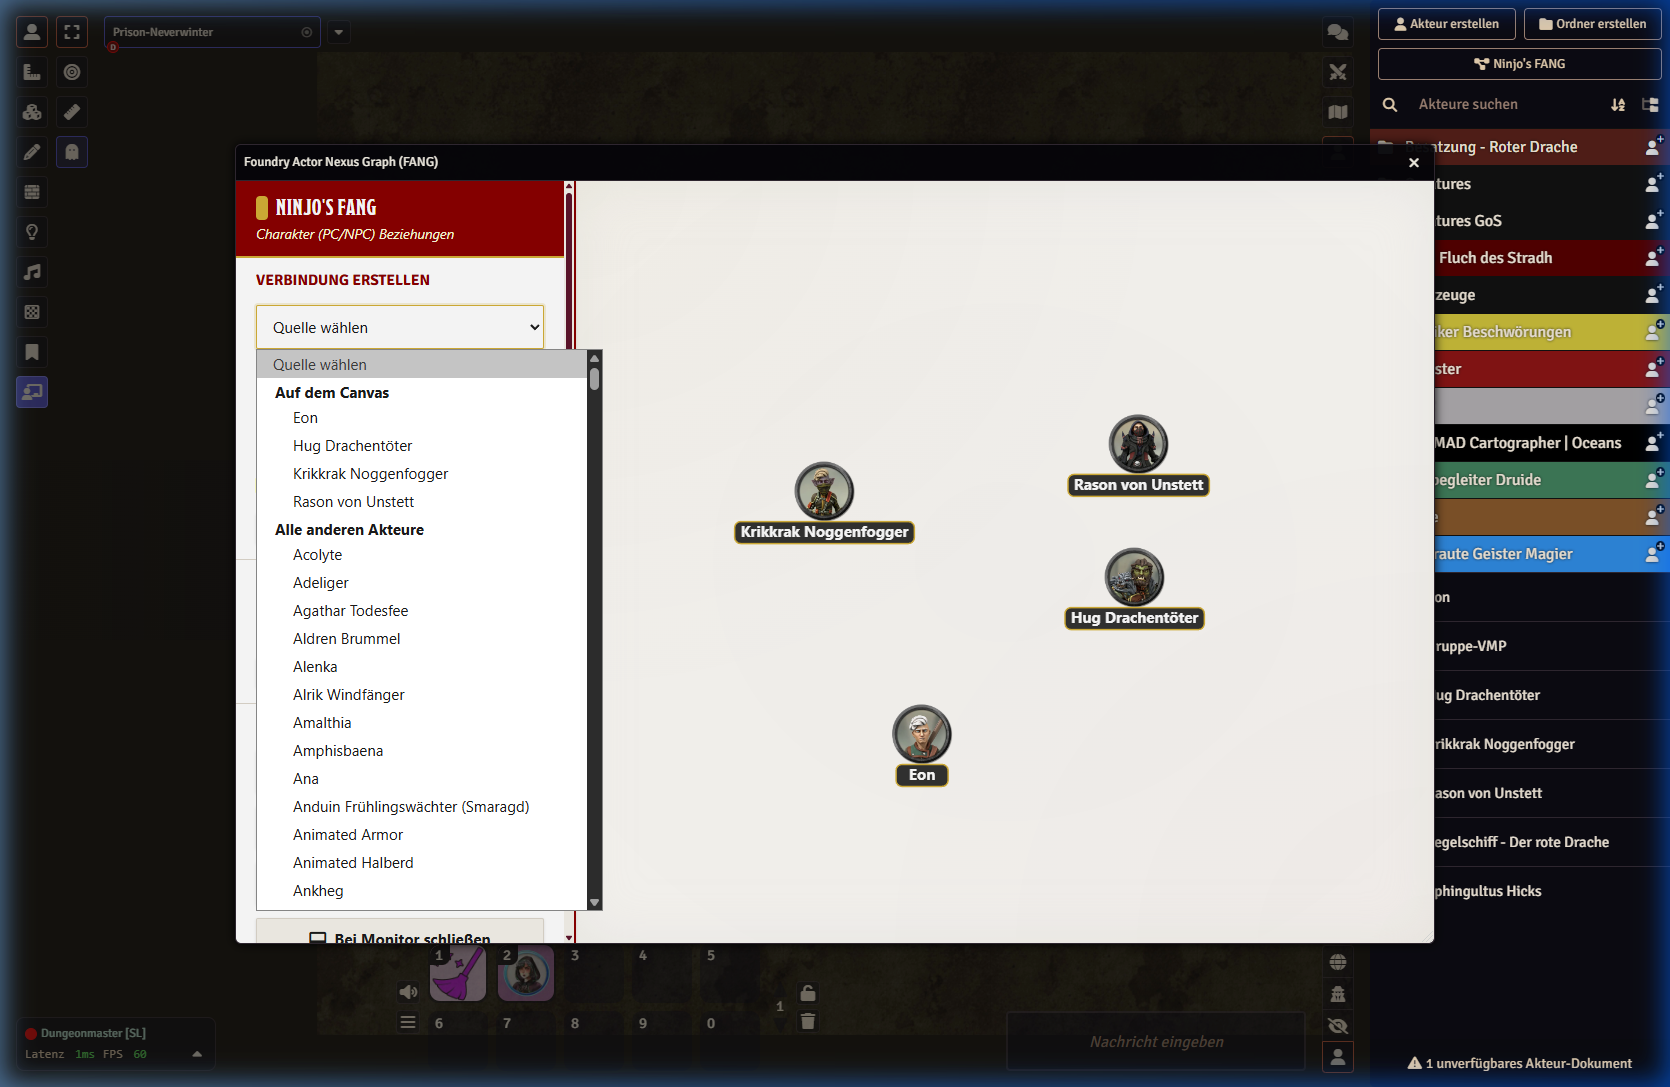
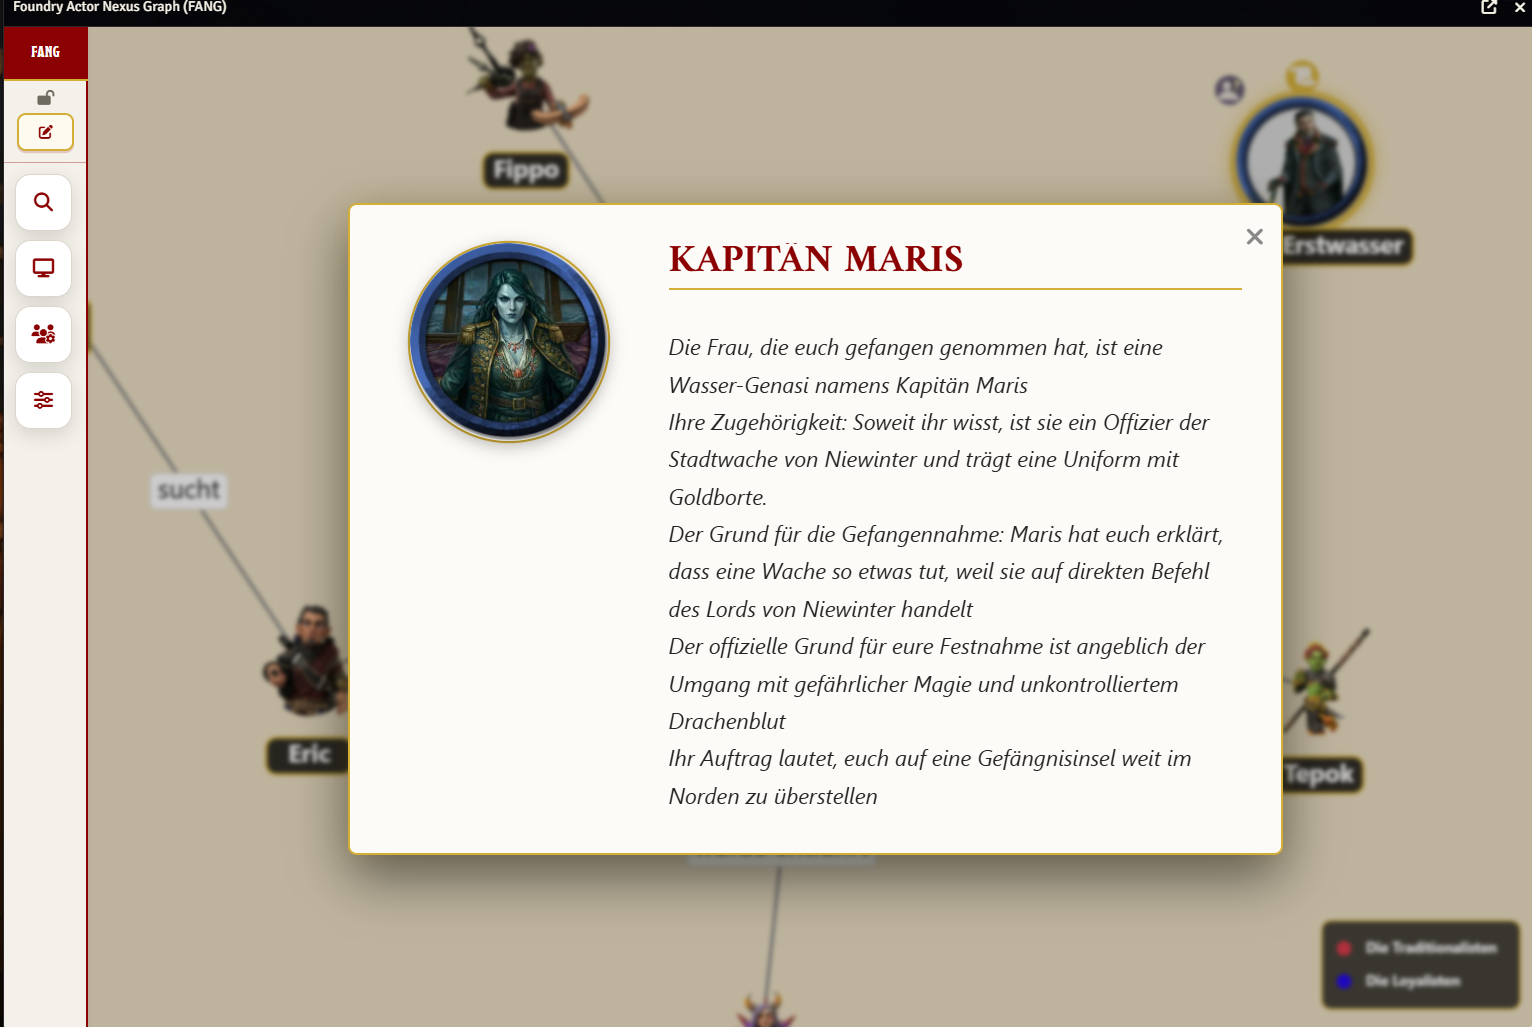
docs(beta): refresh README screenshots

diff --git a/README.md b/README.md
@@ -12,9 +12,9 @@ An interactive, self-arranging Actor Graph module for visualizing Character & NP
 
 ### Features
 <p align="center">
-  <img src="assets/fang_ui_1.png" width="32%" title="Empty Graph UI" />
-  <img src="assets/fang_ui_2.png" width="32%" title="Directional and Normal Links" />
-  <img src="assets/fang_ui_3.png" width="32%" title="Smart Actor Dropdowns" />
+  <img src="assets/fang_ui_1.png" width="32%" title="Canvas Graph Overview" />
+  <img src="assets/fang_ui_2.png" width="32%" title="Canvas Quest Panel" />
+  <img src="assets/fang_ui_3.png" width="32%" title="Narrative Spotlight" />
 </p>
 
 - **In-Person Gaming Mode:** Enable a specialized workflow for local gaming sessions. Includes toggleable monitor controls that appear dynamically in the UI.
@@ -71,9 +71,9 @@ For the current development status and planned features, please refer to the [TO
 
 ### Features
 <p align="center">
-  <img src="assets/fang_ui_1.png" width="32%" title="Leerer Graph UI" />
-  <img src="assets/fang_ui_2.png" width="32%" title="Gerichtete und normale Verbindungen" />
-  <img src="assets/fang_ui_3.png" width="32%" title="Smarte Akteur Dropdowns" />
+  <img src="assets/fang_ui_1.png" width="32%" title="Canvas-Graph Übersicht" />
+  <img src="assets/fang_ui_2.png" width="32%" title="Canvas-Aufträge-Panel" />
+  <img src="assets/fang_ui_3.png" width="32%" title="Narratives Spotlight" />
 </p>
 
 - **In-Person Gaming Modus:** Spezialisierter Workflow für Vor-Ort-Runden. Schaltet optimierte Monitor-Steuerelemente frei, die dynamisch in der UI erscheinen.